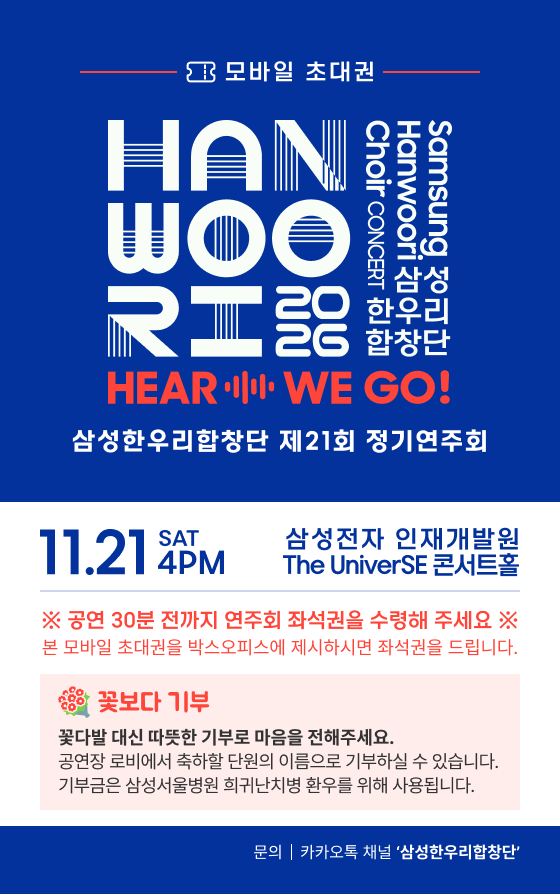
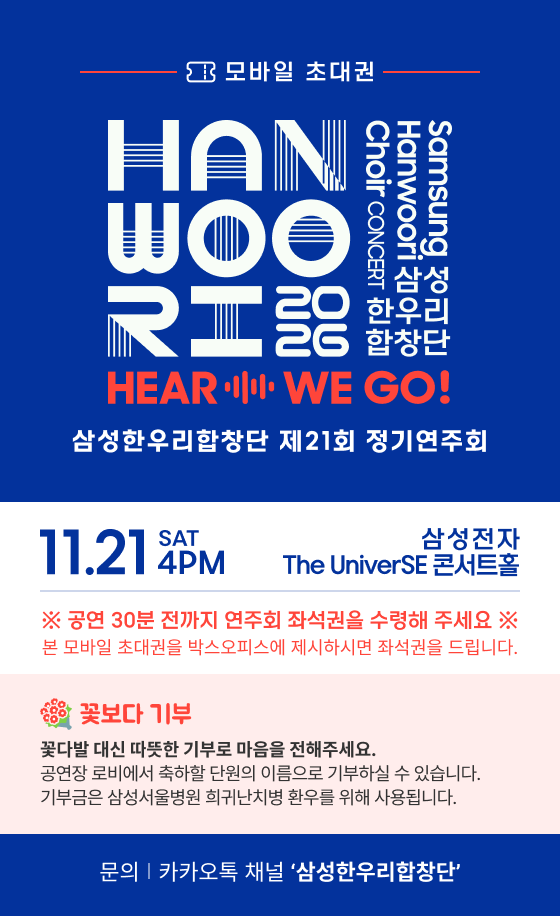
Replace mobile invitation with updated artwork

diff --git a/index.html b/index.html
@@ -9,7 +9,7 @@
 <section id="program" class="program section"><div class="section-inner"><div class="section-heading" data-reveal><div><h2><span class="heading-en" lang="en">Program</span> <span class="heading-ko">프로그램</span></h2></div><p>클래식부터 영화 속 선율까지.</p></div><div class="program-grid"><article data-reveal class="program-group" aria-labelledby="stage-01"><div class="stage-heading"><span class="stage-number" aria-label="Stage 1">01</span><h3 id="stage-01" class="stage-title" lang="en">HEAR</h3><p class="stage-subtitle" lang="en">The Voices</p></div><ul><li><span>Now is the Month of Maying</span><small>T. Morley</small></li><li><span>Kyrie</span><small>S. Dobrogosz</small></li><li><span>Lullaby</span><small>D. Elder</small></li><li><span>Joshua</span><small>Traditional</small></li></ul></article><article data-reveal class="program-group" aria-labelledby="stage-02"><div class="stage-heading"><span class="stage-number" aria-label="Stage 2">02</span><h3 id="stage-02" class="stage-title" lang="en">WE</h3><p class="stage-subtitle" lang="en">In Harmony</p></div><ul><li><span>Laudate Dominum</span><small>W. A. Mozart</small></li><li><span>내 가슴엔 바다가 있다</span><small>박지훈</small></li><li><span>Old McDonald Had a Farm</span><small>Traditional</small></li><li><span>Rejoice</span><small>J. L. Ames</small></li></ul></article><article data-reveal class="program-group" aria-labelledby="stage-03"><div class="stage-heading"><span class="stage-number" aria-label="Stage 3">03</span><h3 id="stage-03" class="stage-title" lang="en">GO</h3><p class="stage-subtitle" lang="en">Beyond Notes</p></div><ul><li><span>On Earth as It Is in Heaven</span><small>E. Morricone</small></li><li><span>너를 태우고</span><small>J. Hisaishi</small></li><li><span>이웃집 토토로</span><small>J. Hisaishi</small></li><li><span>Nella Fantasia</span><small>E. Morricone</small></li><li><span>Circle of Life</span><small>E. John</small></li></ul></article></div></div></section>
 <section id="artists" class="artists section" aria-labelledby="artists-heading"><div class="section-inner"><div class="section-heading" data-reveal><div><h2 id="artists-heading"><span class="heading-en" lang="en">Artists</span> <span class="heading-ko">출연진</span></h2></div></div><div class="artist-grid"><article data-reveal class="artist-card artist-choir"><p class="artist-role">합창</p><div class="artist-content"><h3>삼성한우리합창단</h3></div></article><article data-reveal class="artist-card"><p class="artist-role">지휘</p><div class="artist-content"><h3>박지훈</h3><ul class="artist-bio"><li>안산시립합창단 상임지휘자</li><li>한국합창지휘자협회 이사</li><li>한국교회음악협회 이사</li><li>작곡가</li></ul></div></article><article data-reveal class="artist-card"><p class="artist-role">반주</p><div class="artist-content"><h3>김혜연</h3><ul class="artist-bio"><li>서산시립합창단 반주자</li><li>빈시립음악원 코치과 수석 졸업</li><li>한양대학교 피아노과 최우수 졸업</li><li>예원학교 및 서울예술고등학교 졸업</li></ul></div></article><article data-reveal class="artist-card"><p class="artist-role">협연</p><div class="artist-content"><h3>라퓨즈 플레이어즈 그룹</h3><div class="artist-bio"><p>라퓨즈 플레이어즈 그룹(Lafuse Players Group)은 국내 유일의 합창 전문 연주단체로, 2010년 이세진 대표가 실력과 열정을 겸비한 연주자들과 함께 창단했습니다.</p><p>2012년 인천시립합창단과의 공연을 시작으로 국립·시립·구립·민간 합창단을 비롯해 오페라단, 발레단과 다양한 무대를 함께해 왔습니다.</p><p>‘악기로 노래하는 합창단’이라는 평가를 받으며 합창과 기악이 어우러지는 음악을 선보이고 있습니다.</p></div></div></article><article data-reveal class="artist-card"><p class="artist-role">안무</p><div class="artist-content"><h3>한상원</h3><ul class="artist-bio"><li>월드콰이어게임(세계합창올림픽) 제9회 러시아, 제10회 남아공, 제13회 뉴질랜드 대회 수상</li><li>KBS 《불후의 명곡》, SBS 《싱포골드》 등 다수 방송 프로그램 안무 참여</li><li>안산시립합창단을 비롯한 시립·구립 합창단 안무 활동</li></ul></div></article></div></div></section>
 <section id="about" class="about section"><div class="section-inner"><div><h2><span class="heading-en" lang="en">About Us</span> <span class="heading-ko">합창단 소개</span></h2></div><div class="about-copy"><p class="lead" data-reveal>음악으로 전하는 화합과 감동,<br>삼성한우리합창단입니다.</p><p>2003년 8월, 음악을 사랑하는 삼성그룹 임직원들이 자발적으로 모여 창단했습니다. 정통 클래식부터 현대 가요까지 폭넓은 레퍼토리로 관객과 만나고 있습니다.</p><p>정기연주회와 기획 공연, 자선 연주를 이어오며 매년 공연을 통해 난치병 환우를 위한 기부 활동도 함께하고 있습니다. 단원들의 열정과 우정, 음악에 대한 사랑으로 더 많은 사람들과 새로운 울림을 나누고자 합니다.</p><div class="social-links"><a href="https://www.youtube.com/@samsunghanwoori" target="_blank" rel="noopener noreferrer"><span class="cta-label"><svg class="ui-icon" viewBox="0 0 24 24" width="20" height="20" fill="none" stroke="currentColor" stroke-width="1.7" stroke-linecap="round" stroke-linejoin="round" aria-hidden="true" focusable="false"><rect x="2" y="5" width="20" height="14" rx="4"/><path d="m10 9 5 3-5 3V9Z"/></svg>YouTube ↗</span></a><a href="https://www.instagram.com/samsung_hanwoori/" target="_blank" rel="noopener noreferrer"><span class="cta-label"><svg class="ui-icon" viewBox="0 0 24 24" width="20" height="20" fill="none" stroke="currentColor" stroke-width="1.7" stroke-linecap="round" stroke-linejoin="round" aria-hidden="true" focusable="false"><rect x="3" y="3" width="18" height="18" rx="5"/><circle cx="12" cy="12" r="4"/><path d="M17 7h.01"/></svg>Instagram ↗</span></a></div></div></div></section>
-<section id="mobile-ticket" class="mobile-ticket section" aria-labelledby="mobile-ticket-heading"><div class="section-inner"><div class="section-heading" data-reveal><div><h2 id="mobile-ticket-heading"><span class="heading-en" lang="en">Mobile Ticket</span> <span class="heading-ko">모바일 티켓</span></h2></div></div><div class="ticket-feature"><div class="ticket-feature-copy"><p class="mobile-ticket-intro">티켓을 휴대폰에 저장해 주세요.<br>공연 당일 박스오피스에서 보여주시면 좌석권으로 교환해 드립니다.</p><div class="mobile-ticket-actions"><a class="button ticket-download" href="assets/mobile-ticket.png" download="삼성한우리합창단_제21회_모바일초대권.png"><span class="cta-label"><svg class="ui-icon" viewBox="0 0 24 24" width="20" height="20" fill="none" stroke="currentColor" stroke-width="1.7" stroke-linecap="round" stroke-linejoin="round" aria-hidden="true" focusable="false"><path d="M12 3v12m-5-5 5 5 5-5M4 15v5h16v-5"/></svg>모바일 티켓 저장하기</span><span aria-hidden="true">↓</span></a><a class="ticket-view" href="ticket.html" target="_blank" rel="noopener noreferrer"><span class="cta-label"><svg class="ui-icon" viewBox="0 0 24 24" width="20" height="20" fill="none" stroke="currentColor" stroke-width="1.7" stroke-linecap="round" stroke-linejoin="round" aria-hidden="true" focusable="false"><path d="M2 12s4-7 10-7 10 7 10 7-4 7-10 7S2 12 2 12Z"/><circle cx="12" cy="12" r="3"/></svg>티켓 보기 ↗</span></a></div><p class="mobile-ticket-note">저장되지 않으면 ‘티켓 보기’를 열고 이미지를 길게 눌러 저장해 주세요.</p></div><a class="ticket-art-link" href="ticket.html" target="_blank" rel="noopener noreferrer" aria-label="모바일 티켓 미리보기"><img class="ticket-art" src="assets/mobile-ticket.png" width="560" height="894" alt="삼성한우리합창단 모바일 초대권" loading="lazy"></a></div></div></section>
+<section id="mobile-ticket" class="mobile-ticket section" aria-labelledby="mobile-ticket-heading"><div class="section-inner"><div class="section-heading" data-reveal><div><h2 id="mobile-ticket-heading"><span class="heading-en" lang="en">Mobile Ticket</span> <span class="heading-ko">모바일 티켓</span></h2></div></div><div class="ticket-feature"><div class="ticket-feature-copy"><p class="mobile-ticket-intro">티켓을 휴대폰에 저장해 주세요.<br>공연 당일 박스오피스에서 보여주시면 좌석권으로 교환해 드립니다.</p><div class="mobile-ticket-actions"><a class="button ticket-download" href="assets/mobile-ticket.png?v=20261118" download="삼성한우리합창단_제21회_모바일초대권.png"><span class="cta-label"><svg class="ui-icon" viewBox="0 0 24 24" width="20" height="20" fill="none" stroke="currentColor" stroke-width="1.7" stroke-linecap="round" stroke-linejoin="round" aria-hidden="true" focusable="false"><path d="M12 3v12m-5-5 5 5 5-5M4 15v5h16v-5"/></svg>모바일 티켓 저장하기</span><span aria-hidden="true">↓</span></a><a class="ticket-view" href="ticket.html" target="_blank" rel="noopener noreferrer"><span class="cta-label"><svg class="ui-icon" viewBox="0 0 24 24" width="20" height="20" fill="none" stroke="currentColor" stroke-width="1.7" stroke-linecap="round" stroke-linejoin="round" aria-hidden="true" focusable="false"><path d="M2 12s4-7 10-7 10 7 10 7-4 7-10 7S2 12 2 12Z"/><circle cx="12" cy="12" r="3"/></svg>티켓 보기 ↗</span></a></div><p class="mobile-ticket-note">저장되지 않으면 ‘티켓 보기’를 열고 이미지를 길게 눌러 저장해 주세요.</p></div><a class="ticket-art-link" href="ticket.html" target="_blank" rel="noopener noreferrer" aria-label="모바일 티켓 미리보기"><img class="ticket-art" src="assets/mobile-ticket.png?v=20261118" width="560" height="916" alt="삼성한우리합창단 모바일 초대권" loading="lazy"></a></div></div></section>
 <section id="ticket" class="ticket"><div class="ticket-inner"><h2><span class="heading-en" lang="en">Contact</span> <span class="heading-ko">공연 문의</span></h2><p>공연 관련 문의는 카카오톡 채널<br><strong>‘삼성한우리합창단’</strong>으로 보내주세요.</p><a class="button channel-button" href="https://pf.kakao.com/_vRwKG" target="_blank" rel="noopener noreferrer"><span class="cta-label"><svg class="ui-icon" viewBox="0 0 24 24" width="20" height="20" fill="none" stroke="currentColor" stroke-width="1.7" stroke-linecap="round" stroke-linejoin="round" aria-hidden="true" focusable="false"><path d="M21 11a9 8 0 0 1-9 8H8l-5 3 1-6a8 8 0 0 1-1-5 9 8 0 0 1 18 0Z"/><path d="M8 11h8"/></svg>카카오톡 채널 바로가기</span><span aria-hidden="true">↗</span></a></div></section>
 </main><footer><a class="brand" href="#home">삼성한우리합창단</a><div><p>주최 삼성한우리합창단 · 기획사 카리스</p><p class="sponsor">후원 <img class="samsung-wordmark" src="assets/samsung-wordmark.svg" alt="SAMSUNG" width="80" height="17" loading="lazy"></p></div><a href="#home"><span class="cta-label"><svg class="ui-icon" viewBox="0 0 24 24" width="20" height="20" fill="none" stroke="currentColor" stroke-width="1.7" stroke-linecap="round" stroke-linejoin="round" aria-hidden="true" focusable="false"><path d="M12 21V3m-7 7 7-7 7 7"/></svg>맨 위로</span></a></footer><script src="script.js"></script>
 </body></html>

diff --git a/ticket.html b/ticket.html
@@ -12,12 +12,12 @@
 <body class="ticket-page">
   <header class="ticket-toolbar">
     <a class="ticket-home" href="index.html#mobile-ticket"><svg class="ui-icon" viewBox="0 0 24 24" fill="none" stroke="currentColor" stroke-width="1.7" stroke-linecap="round" stroke-linejoin="round" aria-hidden="true"><path d="m12 5-7 7 7 7M5 12h16"/></svg>공연 안내</a>
-    <a class="button" href="assets/mobile-ticket.png" download="삼성한우리합창단_제21회_모바일초대권.png"><svg class="ui-icon" viewBox="0 0 24 24" fill="none" stroke="currentColor" stroke-width="1.7" stroke-linecap="round" stroke-linejoin="round" aria-hidden="true"><path d="M12 3v12m-5-5 5 5 5-5M4 15v5h16v-5"/></svg>티켓 저장</a>
+    <a class="button" href="assets/mobile-ticket.png?v=20261118" download="삼성한우리합창단_제21회_모바일초대권.png"><svg class="ui-icon" viewBox="0 0 24 24" fill="none" stroke="currentColor" stroke-width="1.7" stroke-linecap="round" stroke-linejoin="round" aria-hidden="true"><path d="M12 3v12m-5-5 5 5 5-5M4 15v5h16v-5"/></svg>티켓 저장</a>
   </header>
   <main class="ticket-viewer">
     <h1>모바일 티켓</h1>
     <p class="ticket-viewer-description">공연 당일 박스오피스에 보여주세요.</p>
-    <img class="responsive-ticket" src="assets/mobile-ticket.png" width="560" height="894" alt="삼성한우리합창단 제21회 정기연주회 모바일 초대권. 2026년 11월 21일 토요일 오후 4시, 삼성전자 The UniverSE 콘서트홀. 공연 30분 전까지 박스오피스에서 좌석권을 수령해 주세요." fetchpriority="high">
+    <img class="responsive-ticket" src="assets/mobile-ticket.png?v=20261118" width="560" height="916" alt="삼성한우리합창단 제21회 정기연주회 모바일 초대권. 2026년 11월 21일 토요일 오후 4시, 삼성전자 The UniverSE 콘서트홀. 공연 30분 전까지 박스오피스에서 좌석권을 수령해 주세요." fetchpriority="high">
     <p class="ticket-save-help">저장 버튼이 동작하지 않으면 티켓 이미지를 길게 눌러 저장해 주세요.</p>
   </main>
 </body>
